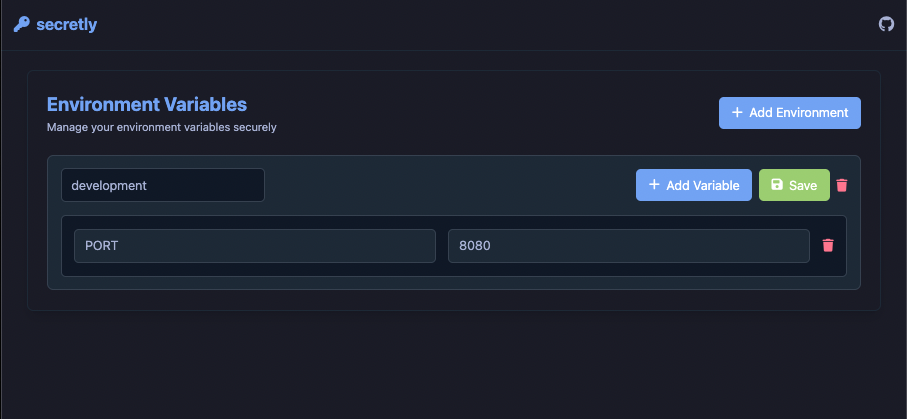
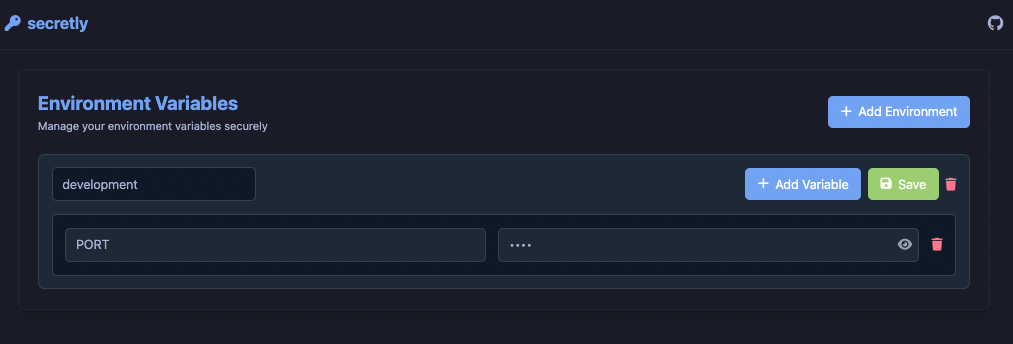
hide env values

diff --git a/internal/web/static/js/app.js b/internal/web/static/js/app.js
@@ -241,5 +241,19 @@ style.textContent = `
 `;
 document.head.appendChild(style);
 
+// Function to toggle password visibility
+function togglePasswordVisibility(button) {
+  const input = button.parentElement.querySelector(".variable-value");
+  const icon = button.querySelector("i");
+
+  if (input.type === "password") {
+    input.type = "text";
+    icon.className = "fas fa-eye-slash";
+  } else {
+    input.type = "password";
+    icon.className = "fas fa-eye";
+  }
+}
+
 // Load environments on startup
 document.addEventListener("DOMContentLoaded", loadEnvironments);

diff --git a/internal/web/templates/index_templ.go b/internal/web/templates/index_templ.go
@@ -41,7 +41,7 @@ func Index() templ.Component {
 				}()
 			}
 			ctx = templ.InitializeContext(ctx)
-			templ_7745c5c3_Err = templruntime.WriteString(templ_7745c5c3_Buffer, 1, "<div class=\"bg-code-bg border border-gray-800 rounded-lg p-6 shadow-lg\"><div class=\"flex justify-between items-center mb-6\"><div><h1 class=\"text-2xl font-bold text-code-accent\">Environment Variables</h1><p class=\"text-sm text-code-fg mt-1\">Manage your environment variables securely</p></div><div class=\"flex space-x-4\"><button type=\"button\" class=\"bg-code-accent hover:bg-blue-600 text-white px-4 py-2 rounded-md flex items-center transition-colors duration-200\" onclick=\"addNewEnvironment()\"><i class=\"fas fa-plus mr-2\"></i> Add Environment</button></div></div><div id=\"environments-container\" class=\"space-y-6\"><!-- Environments will be loaded dynamically here --></div></div><!-- Template for new environment --> <template id=\"environment-template\"><div class=\"environment-item bg-gray-800 rounded-lg p-4 border border-gray-700\"><div class=\"flex justify-between items-center mb-4\"><input type=\"text\" class=\"environment-name w-64 px-3 py-2 bg-gray-900 border border-gray-700 rounded-md text-code-fg placeholder-gray-500 focus:outline-none focus:border-code-accent\" placeholder=\"Environment name\"><div class=\"flex space-x-2\"><button type=\"button\" class=\"bg-code-accent hover:bg-blue-600 text-white px-4 py-2 rounded-md flex items-center transition-colors duration-200\" onclick=\"addNewVariable(this)\"><i class=\"fas fa-plus mr-2\"></i> Add Variable</button> <button type=\"button\" class=\"bg-code-green hover:bg-green-600 text-white px-4 py-2 rounded-md flex items-center transition-colors duration-200\" onclick=\"saveEnvironment(this)\"><i class=\"fas fa-save mr-2\"></i> Save</button> <button type=\"button\" class=\"text-code-red hover:text-red-400 transition-colors duration-200\" onclick=\"removeEnvironment(this)\"><i class=\"fas fa-trash\"></i></button></div></div><div class=\"variables-container space-y-4\"><!-- Variables will be added here --></div></div></template><!-- Template for new variable --> <template id=\"variable-template\"><div class=\"variable-item flex items-center space-x-4 p-4 bg-gray-900 rounded-md border border-gray-700\"><div class=\"flex-1\"><input type=\"text\" class=\"variable-key w-full px-3 py-2 bg-gray-800 border border-gray-700 rounded-md text-code-fg placeholder-gray-500 focus:outline-none focus:border-code-accent\" placeholder=\"Variable name\"></div><div class=\"flex-1\"><input type=\"text\" class=\"variable-value w-full px-3 py-2 bg-gray-800 border border-gray-700 rounded-md text-code-fg placeholder-gray-500 focus:outline-none focus:border-code-accent\" placeholder=\"Value\"></div><button type=\"button\" class=\"remove-button text-code-red hover:text-red-400 transition-colors duration-200\" onclick=\"removeVariable(this)\"><i class=\"fas fa-trash\"></i></button></div></template><!-- Toast notification --> <div id=\"toast\" class=\"fixed bottom-4 right-4 bg-gray-800 text-white px-6 py-3 rounded-md shadow-lg transform translate-y-full opacity-0 transition-all duration-300\"><div class=\"flex items-center\"><i class=\"fas fa-check-circle text-code-green mr-2\"></i> <span id=\"toast-message\"></span></div></div>")
+			templ_7745c5c3_Err = templruntime.WriteString(templ_7745c5c3_Buffer, 1, "<div class=\"bg-code-bg border border-gray-800 rounded-lg p-6 shadow-lg\"><div class=\"flex justify-between items-center mb-6\"><div><h1 class=\"text-2xl font-bold text-code-accent\">Environment Variables</h1><p class=\"text-sm text-code-fg mt-1\">Manage your environment variables securely</p></div><div class=\"flex space-x-4\"><button type=\"button\" class=\"bg-code-accent hover:bg-blue-600 text-white px-4 py-2 rounded-md flex items-center transition-colors duration-200\" onclick=\"addNewEnvironment()\"><i class=\"fas fa-plus mr-2\"></i> Add Environment</button></div></div><div id=\"environments-container\" class=\"space-y-6\"><!-- Environments will be loaded dynamically here --></div></div><!-- Template for new environment --> <template id=\"environment-template\"><div class=\"environment-item bg-gray-800 rounded-lg p-4 border border-gray-700\"><div class=\"flex justify-between items-center mb-4\"><input type=\"text\" class=\"environment-name w-64 px-3 py-2 bg-gray-900 border border-gray-700 rounded-md text-code-fg placeholder-gray-500 focus:outline-none focus:border-code-accent\" placeholder=\"Environment name\"><div class=\"flex space-x-2\"><button type=\"button\" class=\"bg-code-accent hover:bg-blue-600 text-white px-4 py-2 rounded-md flex items-center transition-colors duration-200\" onclick=\"addNewVariable(this)\"><i class=\"fas fa-plus mr-2\"></i> Add Variable</button> <button type=\"button\" class=\"bg-code-green hover:bg-green-600 text-white px-4 py-2 rounded-md flex items-center transition-colors duration-200\" onclick=\"saveEnvironment(this)\"><i class=\"fas fa-save mr-2\"></i> Save</button> <button type=\"button\" class=\"text-code-red hover:text-red-400 transition-colors duration-200\" onclick=\"removeEnvironment(this)\"><i class=\"fas fa-trash\"></i></button></div></div><div class=\"variables-container space-y-4\"><!-- Variables will be added here --></div></div></template><!-- Template for new variable --> <template id=\"variable-template\"><div class=\"variable-item flex items-center space-x-4 p-4 bg-gray-900 rounded-md border border-gray-700\"><div class=\"flex-1\"><input type=\"text\" class=\"variable-key w-full px-3 py-2 bg-gray-800 border border-gray-700 rounded-md text-code-fg placeholder-gray-500 focus:outline-none focus:border-code-accent\" placeholder=\"Variable name\"></div><div class=\"flex-1 relative\"><input type=\"password\" class=\"variable-value w-full px-3 py-2 pr-10 bg-gray-800 border border-gray-700 rounded-md text-code-fg placeholder-gray-500 focus:outline-none focus:border-code-accent\" placeholder=\"Value\"> <button type=\"button\" class=\"absolute right-2 top-1/2 transform -translate-y-1/2 text-gray-400 hover:text-code-fg transition-colors duration-200 toggle-password\" onclick=\"togglePasswordVisibility(this)\"><i class=\"fas fa-eye\"></i></button></div><button type=\"button\" class=\"remove-button text-code-red hover:text-red-400 transition-colors duration-200\" onclick=\"removeVariable(this)\"><i class=\"fas fa-trash\"></i></button></div></template><!-- Toast notification --> <div id=\"toast\" class=\"fixed bottom-4 right-4 bg-gray-800 text-white px-6 py-3 rounded-md shadow-lg transform translate-y-full opacity-0 transition-all duration-300\"><div class=\"flex items-center\"><i class=\"fas fa-check-circle text-code-green mr-2\"></i> <span id=\"toast-message\"></span></div></div>")
 			if templ_7745c5c3_Err != nil {
 				return templ_7745c5c3_Err
 			}
